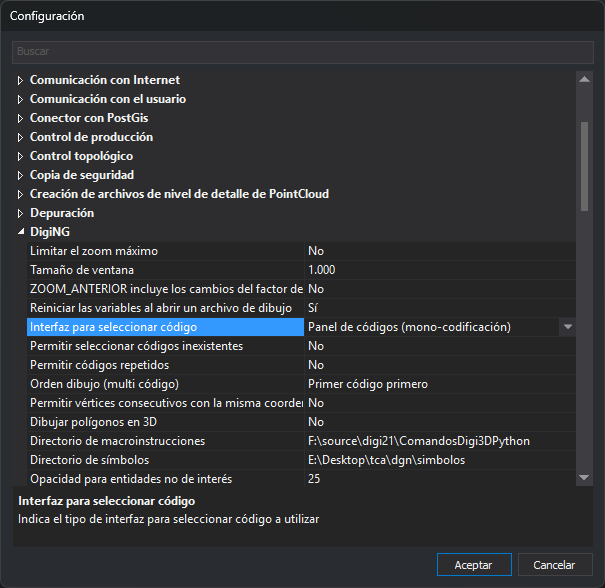
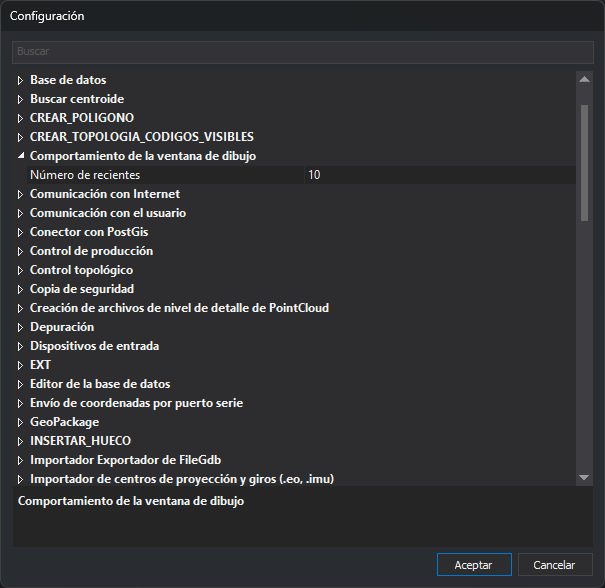
Configuración: capturas con las categorías Comportamiento de la ventana de dibujo y Ventana de dibujo
El área de descripción muestra el nombre del elemento y su descripción; las categorías no tienen descripción. Interfaz para seleccionar código y Orden dibujo también piden reiniciar. Las descripciones de las dos categorías ya no hablan del motor DigiNG, y el nombre de Auto-pulsar Añadir... es el del programa.

Changed region(s): [[0.0298, 0.1224, 0.8926, 0.8878], [0.9521, 0.3367, 0.9818, 0.398], [0.9521, 0.1837, 0.9818, 0.2143]]

diff --git a/src/digi3d-ai/referencia/cuadros-de-dialogo/configuracion/README.md b/src/digi3d-ai/referencia/cuadros-de-dialogo/configuracion/README.md
@@ -24,13 +24,13 @@ Para cambiar una configuración sigue los siguientes pasos:
 El cuadro de diálogo tiene además estos elementos:
 
 * **Buscar**: filtra las opciones por texto, sin distinguir mayúsculas de minúsculas. Sí distingue las vocales acentuadas: `area` no encuentra **Área**. Muestra las opciones cuyo nombre contiene el texto y las categorías que las contienen, y despliega esas categorías. Si el texto aparece en el nombre de una categoría, se muestra la categoría plegada, con todas sus opciones. Con el campo vacío se muestran todas las categorías, plegadas.
-* **Área de descripción**: la parte inferior del cuadro de diálogo muestra la descripción de la opción seleccionada. Algunas opciones no tienen descripción y el área queda vacía.
+* **Área de descripción**: la parte inferior del cuadro de diálogo muestra en negrita el nombre del elemento seleccionado y, debajo, su descripción. Las categorías y algunas opciones no tienen descripción y solo muestran el nombre.
 * **Aceptar**: guarda los cambios. Si Digi3D.AI no se ejecuta como administrador, el botón muestra el escudo del Control de cuentas de usuario de _Windows_.
 * **Cancelar**: cierra el cuadro de diálogo sin guardar los cambios. Las opciones que añaden algunas extensiones, como [EXT puede extender fuera de límites](ext/ext-puede-extender-fuera-de-limites.md), no se guardan, pero Digi3D.AI usa el valor nuevo hasta que se cierra la aplicación.
 
 Al pulsar F1, se abre la página de ayuda de la opción seleccionada. Si la opción no tiene página asignada, se abre la de su categoría o, si tampoco la tiene, esta página.
 
-Al aceptar, si has cambiado alguna opción que no se aplica hasta reiniciar, por ejemplo **Tema** o **Configuración para un único monitor**, Digi3D.AI muestra el mensaje «Los cambios no serán visibles hasta que reinicie la aplicación».
+Al aceptar, si has cambiado alguna opción que no se aplica hasta reiniciar, por ejemplo **Tema**, **Configuración para un único monitor**, **Interfaz para seleccionar código** u **Orden dibujo (multi código)**, Digi3D.AI muestra el mensaje «Los cambios no serán visibles hasta que reinicie la aplicación».
 
 ## Opciones de configuración
 
@@ -74,7 +74,7 @@ Configura la orden BUSCAR\_CENTROIDE.
 
 ### Comportamiento de la ventana de dibujo
 
-Configura aspectos del comportamiento de la ventana de dibujo.
+Contiene la opción **Número de recientes**.
 
 * **[Número de recientes](comportamiento-de-diging/numero-de-recientes.md)** — Número de archivos de la lista de recientes.
 
@@ -594,7 +594,7 @@ Configura la orden UNIR.
 
 ### Ventana de dibujo
 
-Configura los parámetros del motor principal de la ventana de dibujo (DigiNG).
+Agrupa las opciones de la ventana de dibujo: zoom, selección de códigos, órdenes, clonado, directorios de macroinstrucciones y de símbolos, y el campo **Sistema de referencia de coordenadas** del cuadro de diálogo **Nuevo proyecto**.
 
 * **[Limitar el zoom máximo](diging/limitar-el-zoom-maximo.md)** — Impone un factor de zoom máximo en la ventana de dibujo.
 * **[Tamaño de ventana](diging/tamano-de-ventana.md)** — Tamaño mínimo que podrá representar la ventana de dibujo.
@@ -616,7 +616,7 @@ Configura los parámetros del motor principal de la ventana de dibujo (DigiNG).
 * **[Bloqueo de mayúsculas actúa como mayúsculas](diging/bloqueo-de-mayusculas-actua-como-mayusculas.md)** — El bloqueo de mayúsculas se interpreta como Shift + tecla.
 * **[Reset vacía la pila de órdenes](diging/reset-vacia-la-pila-de-ordenes.md)** — RESET anula todas las órdenes de la pila.
 * **[Escape vacía la pila de órdenes](diging/escape-vacia-la-pila-de-ordenes.md)** — Esc vacía toda la pila de órdenes.
-* **[Auto-Pulsar Añadir… en los diálogos que solicitan códigos](diging/auto-pulsar-anadir-en-los-dialogos-que-solicitan-codigos.md)** — Pulsa automáticamente Añadir en los diálogos que piden códigos.
+* **[Auto-pulsar Añadir... en los diálogos que solicitan códigos](diging/auto-pulsar-anadir-en-los-dialogos-que-solicitan-codigos.md)** — Pulsa automáticamente Añadir en los diálogos que piden códigos.
 * **[Mostrar campo Sistema de referencia de coordenadas](diging/mostrar-campo-sistema-de-referencia-de-coordenadas.md)** — Muestra el campo SRC en la pestaña Archivo de dibujo de Nuevo proyecto.
 
 ### Ventana fotogramétrica

diff --git a/src/SUMMARY.md b/src/SUMMARY.md
@@ -1268,7 +1268,7 @@
           * [Bloqueo de mayúsculas actúa como mayúsculas](digi3d-ai/referencia/cuadros-de-dialogo/configuracion/diging/bloqueo-de-mayusculas-actua-como-mayusculas.md)
           * [Reset vacía la pila de órdenes](digi3d-ai/referencia/cuadros-de-dialogo/configuracion/diging/reset-vacia-la-pila-de-ordenes.md)
           * [Escape vacía la pila de órdenes](digi3d-ai/referencia/cuadros-de-dialogo/configuracion/diging/escape-vacia-la-pila-de-ordenes.md)
-          * [Auto-Pulsar Añadir… en los diálogos que solicitan códigos](digi3d-ai/referencia/cuadros-de-dialogo/configuracion/diging/auto-pulsar-anadir-en-los-dialogos-que-solicitan-codigos.md)
+          * [Auto-pulsar Añadir... en los diálogos que solicitan códigos](digi3d-ai/referencia/cuadros-de-dialogo/configuracion/diging/auto-pulsar-anadir-en-los-dialogos-que-solicitan-codigos.md)
           * [Mostrar campo Sistema de referencia de coordenadas](digi3d-ai/referencia/cuadros-de-dialogo/configuracion/diging/mostrar-campo-sistema-de-referencia-de-coordenadas.md)
         * [Ventana fotogramétrica](digi3d-ai/referencia/cuadros-de-dialogo/configuracion/ventana-fotogrametrica/README.md)
           * [Mostrar panel lateral](digi3d-ai/referencia/cuadros-de-dialogo/configuracion/ventana-fotogrametrica/mostrar-panel-lateral.md)

diff --git a/src/digi3d-ai/referencia/cuadros-de-dialogo/selecciona-codigos.md b/src/digi3d-ai/referencia/cuadros-de-dialogo/selecciona-codigos.md
@@ -23,6 +23,6 @@ Una orden abre este cuadro de diálogo para que indiques los códigos con los qu
 
 ## Observaciones
 
-Si está activada la opción [Auto-Pulsar Añadir… en los diálogos que solicitan códigos](configuracion/diging/auto-pulsar-anadir-en-los-dialogos-que-solicitan-codigos.md), el cuadro de diálogo pulsa **Añadir...** al abrirse.
+Si está activada la opción [Auto-pulsar Añadir... en los diálogos que solicitan códigos](configuracion/diging/auto-pulsar-anadir-en-los-dialogos-que-solicitan-codigos.md), el cuadro de diálogo pulsa **Añadir...** al abrirse.
 
 El cuadro de diálogo recuerda su posición y su tamaño por separado para cada orden. ON\_TIPO, OFF\_TIPO y sus variantes ONS\_TIPO, OFFS\_TIPO, OND\_TIPO y OFFD\_TIPO comparten la misma posición y el mismo tamaño.

diff --git a/src/digi3d-ai/referencia/cuadros-de-dialogo/configuracion/diging/README.md b/src/digi3d-ai/referencia/cuadros-de-dialogo/configuracion/diging/README.md
@@ -1,6 +1,8 @@
 # Ventana de dibujo
 <!-- id: diging -->
 
-Configura los parámetros del motor principal de la ventana de dibujo (DigiNG).
+Agrupa las opciones de la ventana de dibujo: zoom, selección de códigos, órdenes, clonado, directorios de macroinstrucciones y de símbolos, y el campo **Sistema de referencia de coordenadas** del cuadro de diálogo **Nuevo proyecto**.
+
+![Cuadro de diálogo Configuración con la categoría Ventana de dibujo desplegada](../../../../../images/configuracion-ventana-de-dibujo.png)
 
 Configura estas opciones desde el cuadro de diálogo de **[Configuración](../README.md)**.

diff --git a/src/digi3d-ai/referencia/cuadros-de-dialogo/configuracion/diging/auto-pulsar-anadir-en-los-dialogos-que-solicitan-codigos.md b/src/digi3d-ai/referencia/cuadros-de-dialogo/configuracion/diging/auto-pulsar-anadir-en-los-dialogos-que-solicitan-codigos.md
@@ -1,4 +1,4 @@
-# Auto-Pulsar Añadir… en los diálogos que solicitan códigos
+# Auto-pulsar Añadir... en los diálogos que solicitan códigos
 <!-- id: auto-pulsar-anadir-en-los-dialogos-que-solicitan-codigos -->
 
 Si se activa, se pulsa automáticamente el botón **Añadir** en los cuadros de diálogo que solicitan códigos, como los que aparecen al ejecutar las órdenes ON, OFF, etc.

diff --git a/src/digi3d-ai/referencia/cuadros-de-dialogo/configuracion/comportamiento-de-diging/README.md b/src/digi3d-ai/referencia/cuadros-de-dialogo/configuracion/comportamiento-de-diging/README.md
@@ -1,6 +1,6 @@
 # Comportamiento de la ventana de dibujo
 <!-- id: comportamiento-de-diging -->
 
-Configura aspectos del comportamiento de la ventana de dibujo.
+Contiene la opción [Número de recientes](numero-de-recientes.md).
 
 Configura estas opciones desde el cuadro de diálogo de **[Configuración](../README.md)**.
